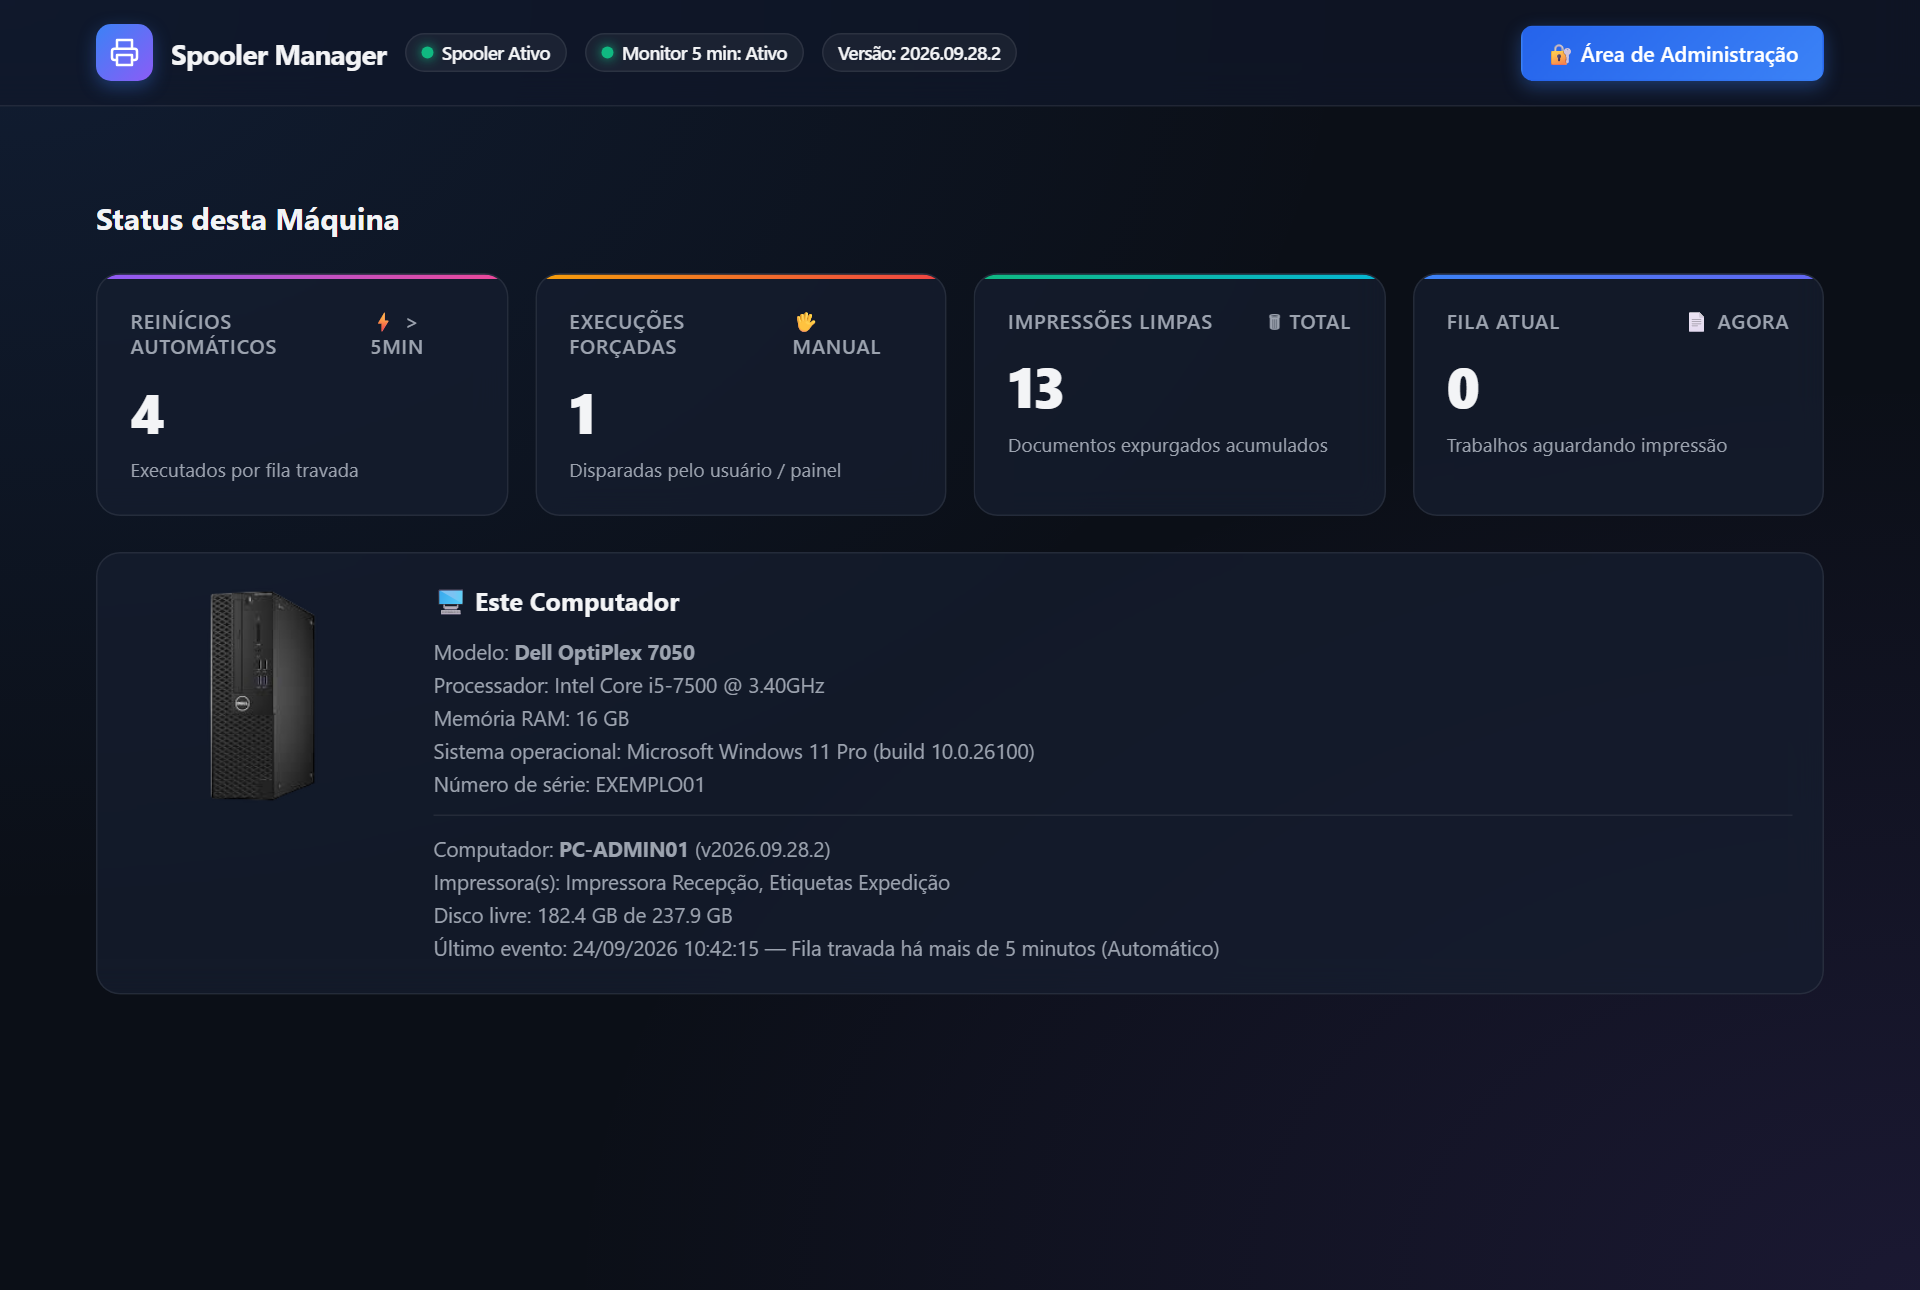
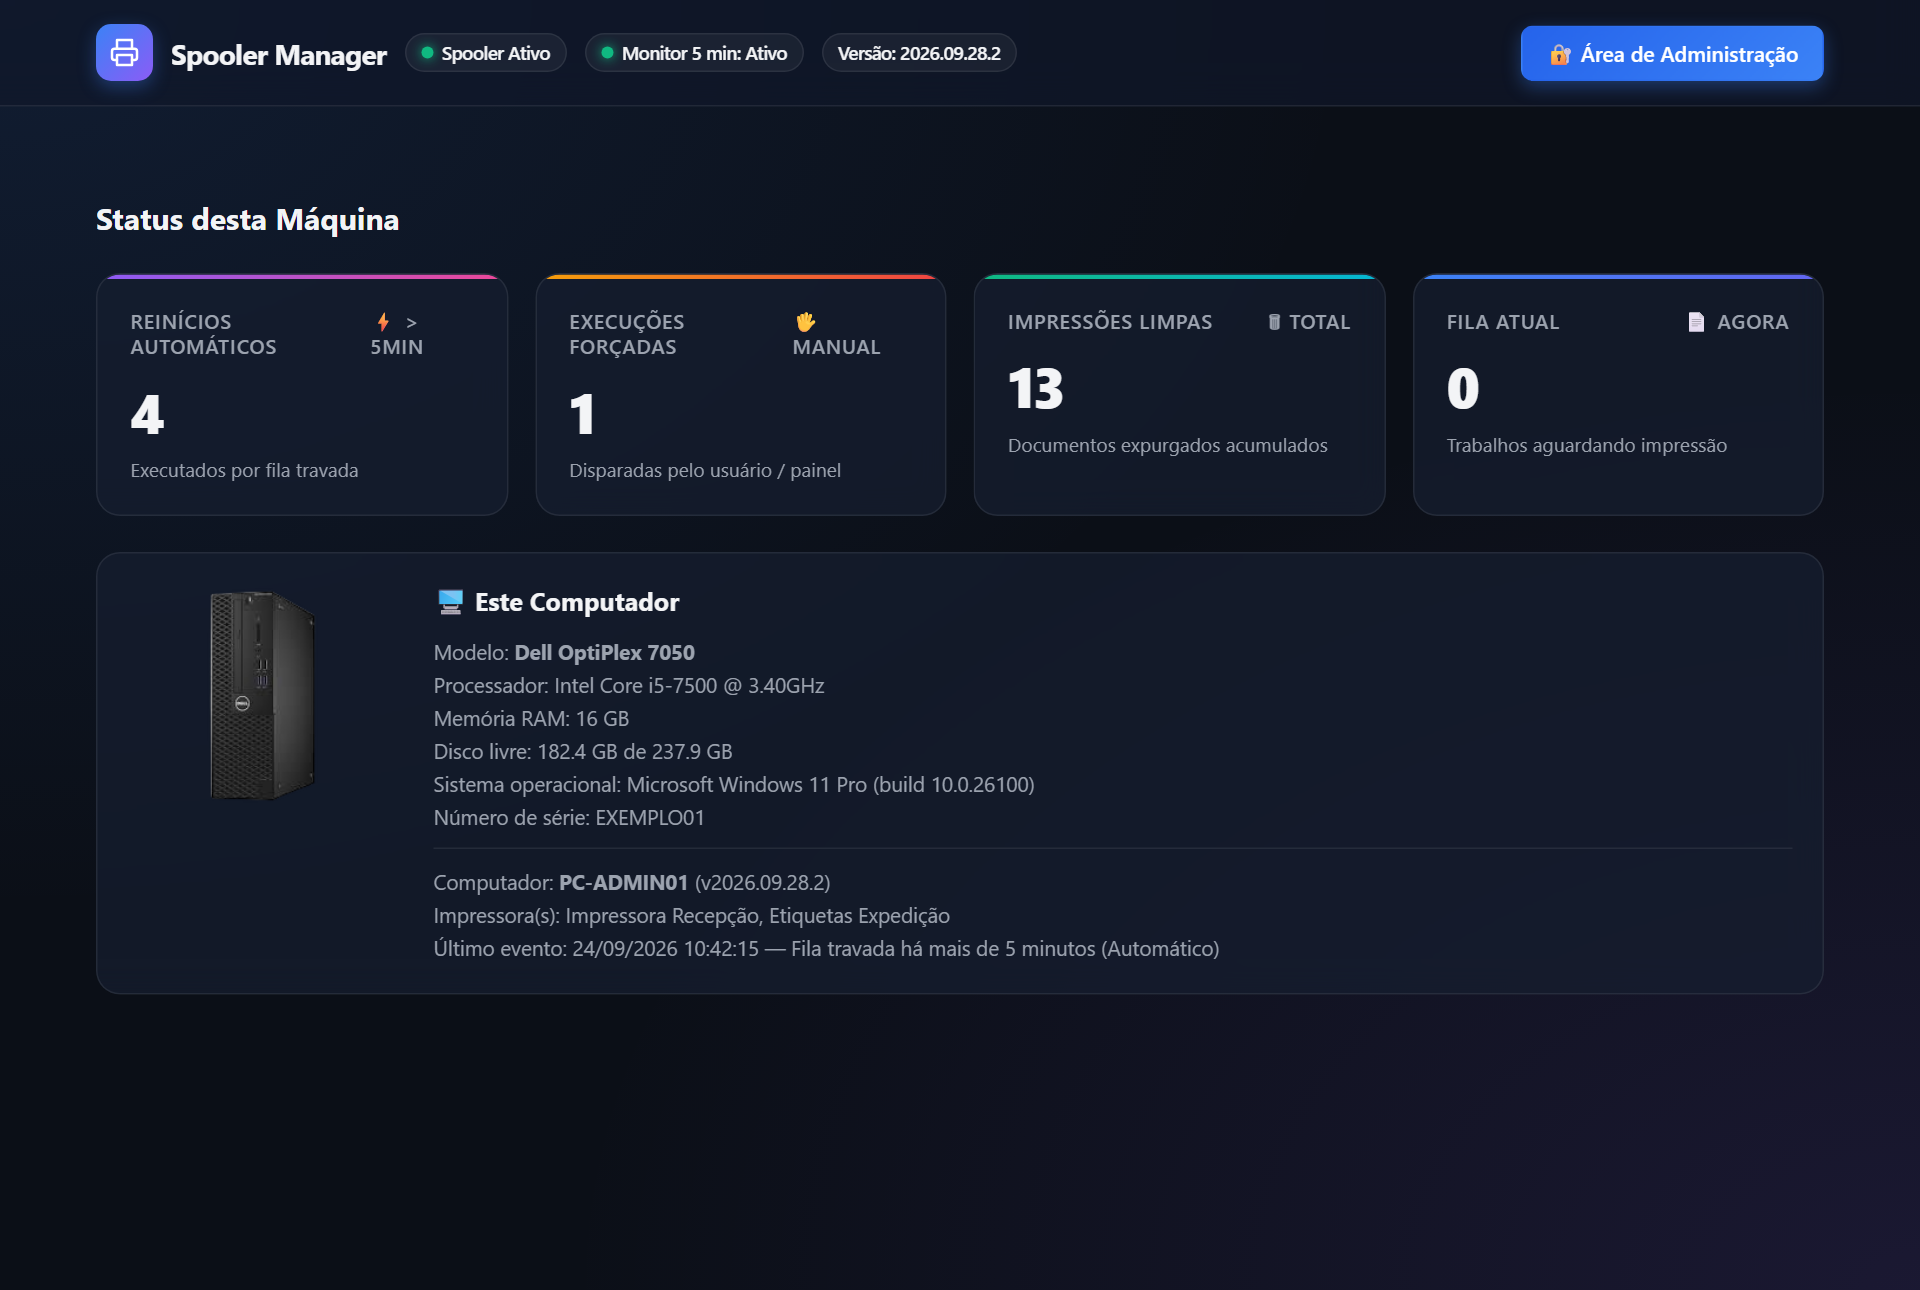
Tela inicial e "Este Computador" com o mesmo layout do card da Frota (v2026.09.28.4)
Disco livre sobe para junto do hardware (modelo, processador, RAM, SO,
serie); embaixo fica so o que muda o tempo todo. Teste de navegador para
as duas telas.

Changed region(s): [[0.2188, 0.5581, 0.5312, 0.7132]]

diff --git a/dist_spooler/app/dashboard.html b/dist_spooler/app/dashboard.html
@@ -1080,7 +1080,9 @@
       const running = health.spooler_status === "Running";
       dot.className = "dot " + (running ? "" : "down");
       txt.textContent = running ? "Spooler Ativo" : "Spooler Parado";
-      details.innerHTML = buildMachineDetailsHtml(health, { skipQueueAndStats: true });
+      details.innerHTML = buildMachineDetailsHtml(health, { skipQueueAndStats: true, skipDisk: true });
+      healthLocal = health;
+      renderSpecsLocal("home");
 
       const stats = health.stats || {};
       document.getElementById("home-val-auto").textContent = stats.restarts_auto || 0;
@@ -1116,25 +1118,40 @@
       }
     }
 
-    async function loadMachineSpecsInto(prefix) {
+    // Card de identificacao desta maquina (tela inicial e "Este Computador"):
+    // mesmo layout dos cards da Frota - hardware (inclusive disco) em cima,
+    // o que muda o tempo todo embaixo. Specs vem do /api/machine-info e o
+    // disco do /api/health, que chegam em momentos diferentes.
+    let specsLocal = null, healthLocal = null;
+
+    function renderSpecsLocal(prefix) {
       const specsEl = document.getElementById(`${prefix}-specs`);
       if (!specsEl) return;
-      try {
-        const res = await fetch("/api/machine-info");
-        const s = await res.json();
-        if (!s) { specsEl.innerHTML = ""; return; }
-
-        let linhas = [];
+      const s = specsLocal;
+      let linhas = [];
+      if (s) {
         const modelo = [s.manufacturer, s.model].filter(Boolean).join(" ");
         if (modelo) linhas.push(`Modelo: <strong>${modelo}</strong>`);
         if (s.cpu) linhas.push(`Processador: ${s.cpu}`);
         if (s.ram_gb) linhas.push(`Memória RAM: ${s.ram_gb} GB`);
+      }
+      const disco = formatarDisco(healthLocal);
+      if (disco) linhas.push(disco);
+      if (s) {
         if (s.os_caption) linhas.push(`Sistema operacional: ${s.os_caption}${s.os_version ? ` <span style="color: var(--text-muted);">(build ${s.os_version})</span>` : ""}`);
         if (s.serial) linhas.push(`Número de série: ${s.serial}`);
-        specsEl.innerHTML = linhas.join("<br>");
-      } catch (e) {
-        specsEl.innerHTML = "";
       }
+      specsEl.innerHTML = linhas.join("<br>");
+    }
+
+    async function loadMachineSpecsInto(prefix) {
+      try {
+        const res = await fetch("/api/machine-info");
+        specsLocal = await res.json();
+      } catch (e) {
+        specsLocal = null;
+      }
+      renderSpecsLocal(prefix);
     }
 
     async function checkUpdateVersionBadge(prefix) {
@@ -1240,7 +1257,11 @@
       const health = await fetchLocalHealth();
       const dashDetails = document.getElementById("dash-details");
       if (dashDetails) {
-        dashDetails.innerHTML = health ? buildMachineDetailsHtml(health, { skipQueueAndStats: true }) : "Não foi possível consultar o serviço local.";
+        dashDetails.innerHTML = health ? buildMachineDetailsHtml(health, { skipQueueAndStats: true, skipDisk: true }) : "Não foi possível consultar o serviço local.";
+      }
+      if (health) {
+        healthLocal = health;
+        renderSpecsLocal("dash");
       }
       if (health) {
         updateMachineCardPhoto("dash", health);

diff --git a/tools/tests/test_dashboard_frota.py b/tools/tests/test_dashboard_frota.py
@@ -129,3 +129,30 @@ def test_card_mostra_hardware_em_cima_e_disco_nao_repete_embaixo(pagina):
         assert campo in topo, campo
     assert "Disco livre" not in baixo
     assert "Impressora(s)" in baixo  # o que muda o tempo todo continua embaixo
+
+
+@pytest.mark.parametrize("logado,prefixo", [(False, "home"), (True, "dash")])
+def test_tela_inicial_e_este_computador_mesmo_layout(logado, prefixo):
+    # Tela inicial (sem login) e aba "Este Computador": hardware + disco em cima.
+    with playwright.sync_playwright() as p:
+        try:
+            browser = p.chromium.launch()
+        except Exception as e:
+            pytest.skip(f"Chromium indisponivel: {e}")
+        ctx = browser.new_context()
+        ctx.route("**/*", painel.responder)
+        if logado:
+            ctx.add_init_script("localStorage.setItem('spooler_token', 'token-exemplo');")
+        page = ctx.new_page()
+        erros = []
+        page.on("pageerror", lambda e: erros.append(str(e)))
+        page.goto(painel.BASE + "/")
+        page.wait_for_selector(f"#{prefixo}-specs >> text=Disco livre", timeout=15000)
+        topo, baixo = page.inner_text(f"#{prefixo}-specs"), page.inner_text(f"#{prefixo}-details")
+        for campo in ("Modelo: Dell OptiPlex 7050", "Processador: Intel Core i5-7500", "Memória RAM: 16 GB",
+                      "Disco livre: 182.4 GB de 237.9 GB", "Sistema operacional: Microsoft Windows 11 Pro"):
+            assert campo in topo, campo
+        assert "Disco livre" not in baixo
+        assert "Impressora(s)" in baixo
+        assert erros == []
+        browser.close()
